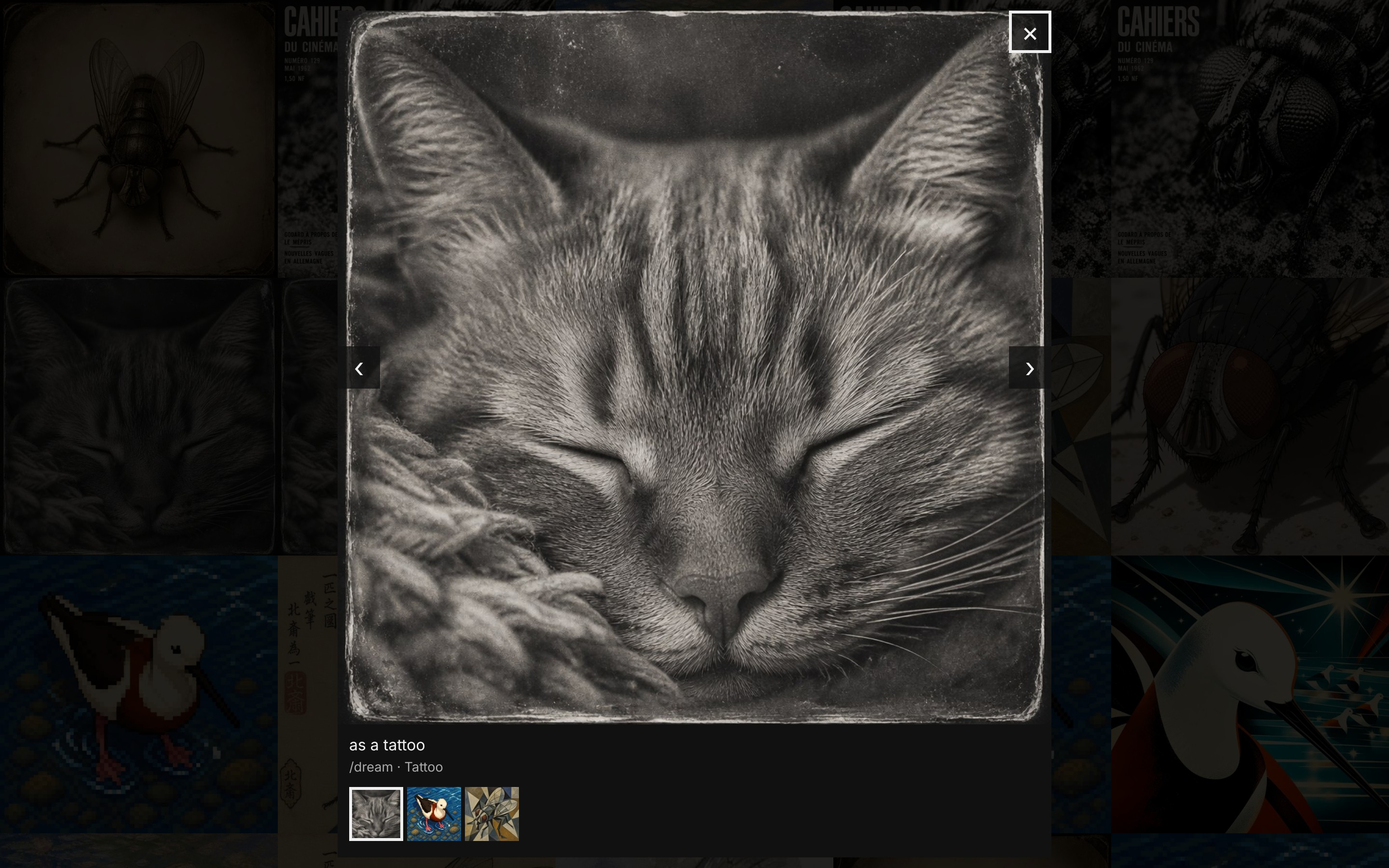
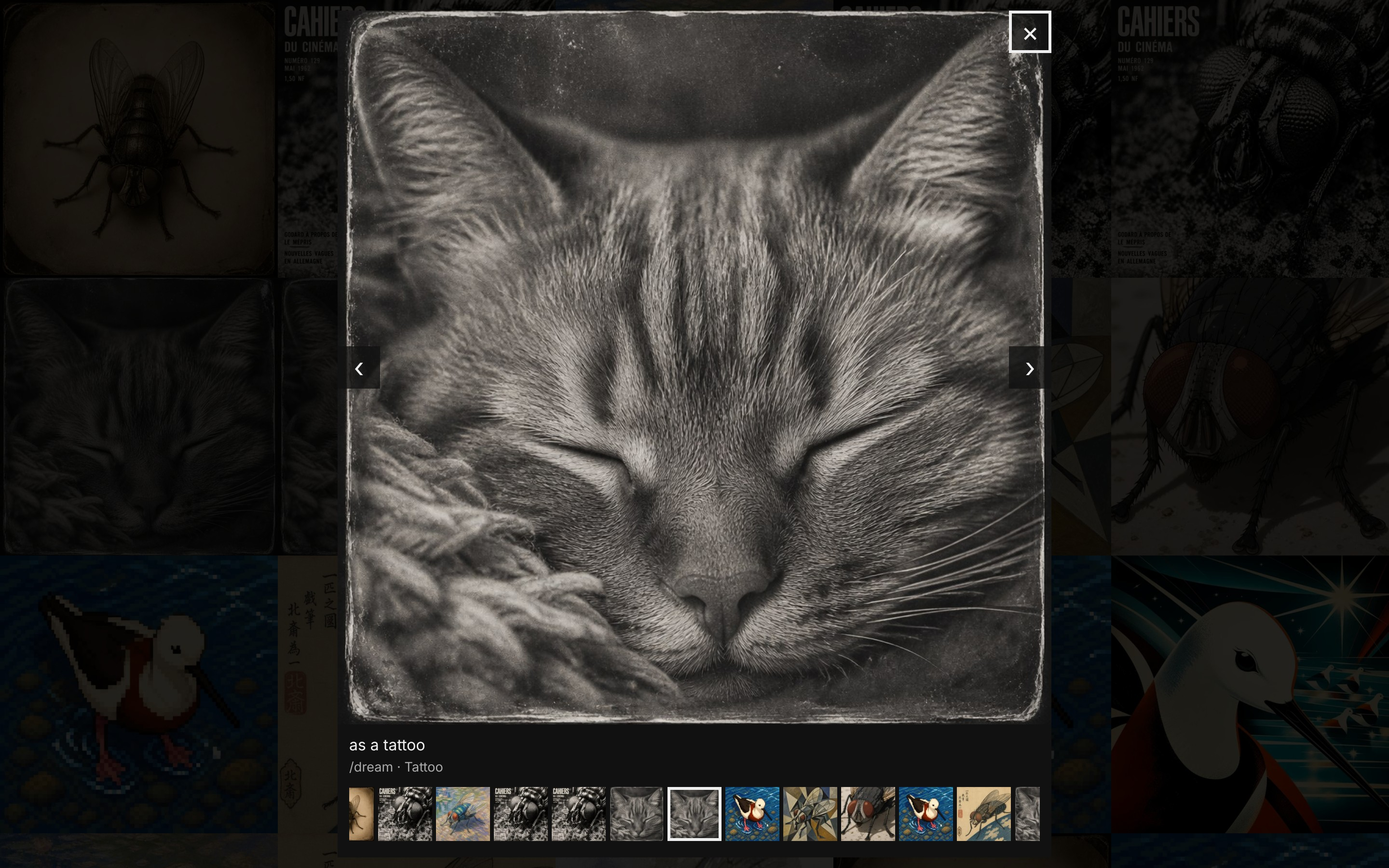
Lightbox strip: eight thumbnails either side
Claude-Session: https://claude.ai/code/session_01RsqJnwc1KhZgxetzj61D45

Changed region(s): [[0.25, 0.9022, 0.75, 0.9956]]

diff --git a/e2e/lightbox.spec.js b/e2e/lightbox.spec.js
@@ -125,9 +125,9 @@ test('near the end of the loaded tiles, more are fetched and the strip fills in'
   await page.locator(`.tile[data-key="${keys[n - 1]}"] a`).evaluate(a => a.click())
   await loaded(page, keys[n - 1])
   await expect.poll(() => page.locator('#grid .tile').count()).toBeGreaterThan(n)
-  // The strip now has the four images that follow, which were not loaded a moment ago.
-  await expect(page.locator('#strip button')).toHaveCount(9)
-  await expect(page.locator('#strip button').nth(4)).toHaveAttribute('aria-current', 'true')
+  // The strip now has the eight images that follow, which were not loaded a moment ago.
+  await expect(page.locator('#strip button')).toHaveCount(17)
+  await expect(page.locator('#strip button').nth(8)).toHaveAttribute('aria-current', 'true')
   // The large image was not reloaded or hidden by that.
   expect(await page.locator('#full').evaluate(i => getComputedStyle(i).visibility)).toBe('visible')
   await page.keyboard.press('ArrowRight')
@@ -139,22 +139,22 @@ test('the strip shows the neighbouring images in gallery order, whatever their p
   const strip = () => page.locator('#strip button')
   const stripKeys = () => page.locator('#strip img').evaluateAll(is => is.map(i => i.getAttribute('src').match(/\/img\/(.+)-240\.webp/)[1]))
 
-  // In the middle of the page: four before, the image itself, four after.
-  const i = 10
+  // In the middle of the page: eight before, the image itself, eight after.
+  const i = 20
   await page.locator(`.tile[data-key="${keys[i]}"] a`).evaluate(a => a.click())
   await loaded(page, keys[i])
-  await expect(strip()).toHaveCount(9)
-  expect(await stripKeys()).toEqual(keys.slice(i - 4, i + 5))
-  await expect(strip().nth(4)).toHaveAttribute('aria-current', 'true')
+  await expect(strip()).toHaveCount(17)
+  expect(await stripKeys()).toEqual(keys.slice(i - 8, i + 9))
+  await expect(strip().nth(8)).toHaveAttribute('aria-current', 'true')
   await expect(page.locator('#strip [aria-current]')).toHaveCount(1)
   await expect.poll(() => page.locator('#strip img').evaluateAll(is => is.every(i => i.complete && i.naturalWidth > 0))).toBe(true)
 
   // Selecting a neighbour moves there, and the strip moves with it.
-  await strip().nth(6).click()
+  await strip().nth(10).click()
   await loaded(page, keys[i + 2])
   await expect(page).toHaveURL(new RegExp(`#/p/${keys[i + 2]}$`))
-  expect(await stripKeys()).toEqual(keys.slice(i - 2, i + 7))
-  await expect(strip().nth(4)).toHaveAttribute('aria-current', 'true')
+  expect(await stripKeys()).toEqual(keys.slice(i - 6, i + 11))
+  await expect(strip().nth(8)).toHaveAttribute('aria-current', 'true')
 
   // The keyboard focus stays in the strip, on the image now showing, although the strip was rebuilt.
   expect(await page.evaluate(() => document.activeElement?.getAttribute('aria-current'))).toBe('true')
@@ -162,7 +162,7 @@ test('the strip shows the neighbouring images in gallery order, whatever their p
   // The arrow keys move the strip too. With Alt held they are left to the browser (Back and Forward).
   await page.keyboard.press('ArrowLeft')
   await loaded(page, keys[i + 1])
-  expect(await stripKeys()).toEqual(keys.slice(i - 3, i + 6))
+  expect(await stripKeys()).toEqual(keys.slice(i - 7, i + 10))
   expect(await page.evaluate(() => {
     const e = new KeyboardEvent('keydown', { key: 'ArrowRight', altKey: true, bubbles: true, cancelable: true })
     document.activeElement.dispatchEvent(e)
@@ -178,7 +178,7 @@ test('the strip shows the neighbouring images in gallery order, whatever their p
   // At the very start there is nothing before the first image.
   await page.locator(`.tile[data-key="${keys[0]}"] a`).evaluate(a => a.click())
   await loaded(page, keys[0])
-  expect(await stripKeys()).toEqual(keys.slice(0, 5))
+  expect(await stripKeys()).toEqual(keys.slice(0, 9))
   await expect(strip().nth(0)).toHaveAttribute('aria-current', 'true')
 })
 

diff --git a/web/app.js b/web/app.js
@@ -146,8 +146,8 @@ function show(key) {
   $('cmd').textContent = t ? '/' + t.command + ' · ' + t.label : ''
   // Strip: neighbours in gallery order.
   const all = keys(), i = all.indexOf(key), f = strip.contains(document.activeElement)
-  if (i > all.length - 6) more()
-  strip.replaceChildren(...(i < 0 ? [] : all.slice(Math.max(0, i - 4), i + 5)).map(k => {
+  if (i > all.length - 10) more()
+  strip.replaceChildren(...(i < 0 ? [] : all.slice(Math.max(0, i - 8), i + 9)).map(k => {
     const s = data.get(k), li = el('li'), b = el('button'), img = el('img')
     b.type = 'button'
     b.title = img.alt = s.caption || s.prompt || s.label

diff --git a/e2e/README.md b/e2e/README.md
@@ -39,7 +39,7 @@ stack will fail there.
 | File | Checks |
 |---|---|
 | `grid.spec.js` | At 375, 390, 479, 480, 800, 1001, 1366, 1440 and 1920 px wide (1x, 2x and 3x): every tile is square, neighbours' bounding rects touch, no gap at either edge, `gap` is 0. Then, with white stand-in images, a screenshot of the first screen and of the seam between two batches must be entirely white, so no background shows between tiles once painted. Order equals the API's (newest first). Scrolling loads every page to the last tile with no duplicate keys and no page requested twice. |
-| `lightbox.spec.js` | Opens on the clicked tile with the 1024 px original; ArrowLeft, ArrowRight and the buttons move between tiles (and load the next page at the end); the strip shows the four images either side in gallery order, fills in as more load, keeps the keyboard focus and is centred on a narrow screen; the previous image is hidden while the next loads, and a failed image is retried; Esc, the close button and a click on the backdrop close it; focus returns to the tile; Back closes and Forward reopens; deep links `#/p/<key>`, also for a tile several pages down and for a key that does not exist; layout on a phone. |
+| `lightbox.spec.js` | Opens on the clicked tile with the 1024 px original; ArrowLeft, ArrowRight and the buttons move between tiles (and load the next page at the end); the strip shows the eight images either side in gallery order, fills in as more load, keeps the keyboard focus and is centred on a narrow screen; the previous image is hidden while the next loads, and a failed image is retried; Esc, the close button and a click on the backdrop close it; focus returns to the tile; Back closes and Forward reopens; deep links `#/p/<key>`, also for a tile several pages down and for a key that does not exist; layout on a phone. |
 | `login.spec.js` | Anonymous visitors are sent to `/login` and get 401 from the API and images; a wrong token is refused; the right one sets an HttpOnly, Secure, SameSite=Strict cookie that does not contain the token; a forged cookie fails; HTTP Basic works; wrong Basic passwords are rate-limited like failed logins (429 after five, also for the right token and for `/login`); `/app.js` needs the login and `/app.css` does not; security headers on every kind of response. |
 | `noscript.spec.js` | With JavaScript off: the server-rendered first page is flush and in order, tiles link to the original, and "Load more" walks every page to the end with no duplicates or gaps. |
 | `perf.spec.js` | Bytes transferred on a first visit (empty browser cache, warm server cache) against the budget of 2 MB, on four device profiles; nothing but the page and JSON on a second visit; latency of a warm tile (median and p95 must be under 5 ms). |

diff --git a/CONTRACTS.md b/CONTRACTS.md
@@ -467,7 +467,7 @@ All JSON responses: `Content-Type: application/json; charset=utf-8`, `Cache-Cont
 - `tiles`: always an array (`[]` when empty, never `null`), newest first; each element is `json.Marshal(source.Tile)`.
   - `key`: unique per tile; the DOM de-duplication id and the deep link `#/p/<key>`.
   - `current`: a **string**, the style key of the record's current image. The tile is the record's current image when `tile.style === tile.current`.
-  - `styles`: every image of the tile's record, the tile's own included (find it by `key`), current style first. Each entry's 240 px thumbnail is `/img/<styles[i].key>-240.webp?v=<v>` and its full image `/img/<styles[i].key>.jpg`. The lightbox strip does not use `styles`: it shows the four tiles either side of the open one, in gallery order.
+  - `styles`: every image of the tile's record, the tile's own included (find it by `key`), current style first. Each entry's 240 px thumbnail is `/img/<styles[i].key>-240.webp?v=<v>` and its full image `/img/<styles[i].key>.jpg`. The lightbox strip does not use `styles`: it shows the eight tiles either side of the open one, in gallery order.
   - `updated`: epoch seconds. `caption` may be `""`: alt text is `caption || prompt`.
 - `next`: string cursor for the following page, or `null` at the end. **A page may hold fewer (or, rarely, more) tiles than `limit`**, because pages hold whole records; keep loading until `next` is `null`.
 - `newest`: cursor of the newest tile in the listing at the time of the response, or `null` if the listing is empty. The page keeps the `newest` of its **first** (cursor-less) response as its `since`.
